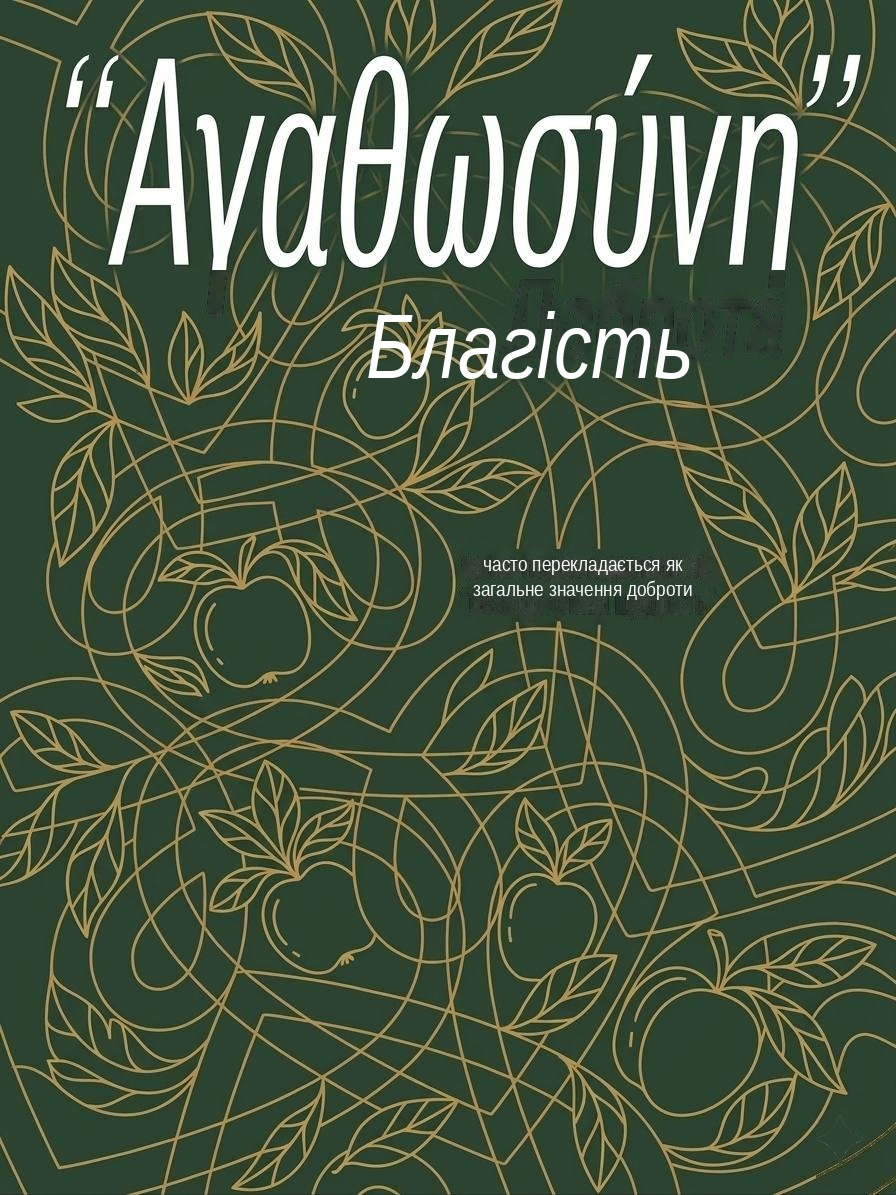
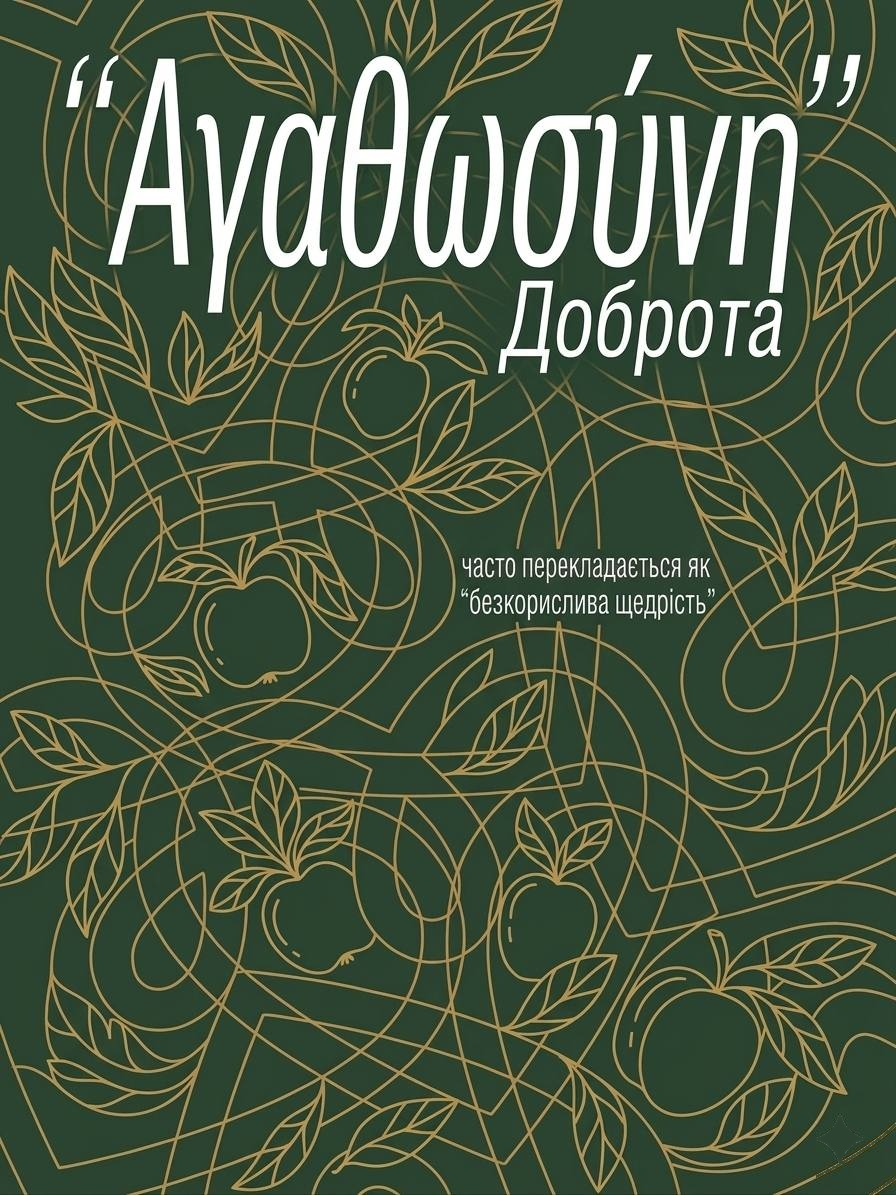
back original photo

Changed region(s): [[0.4062, 0.2167, 0.875, 0.3406], [0.5, 0.4644, 0.8125, 0.5264], [0.2188, 0.2167, 0.25, 0.2787]]

diff --git a/js/blocks.js b/js/blocks.js
@@ -263,14 +263,14 @@ window.MAG_BLOCKS = [
     ]
   },
   {
-    kind: 'fruit', img: window.__resources.img_fruit_kindness, n: '05', name: 'Доброта', greek: 'χρηστότης · часто перекладається як ласкавість',
+    kind: 'fruit', img: window.__resources.img_fruit_kindness, n: '05', name: 'Доброта', greek: 'χρηστότης · chrēstótēs',
     body: [
       'Значить бути щиро добрим до всіх і кожного. Вона припускає, що всі люди заслуговують на доброту, незалежно від відмінностей, поглядів чи культур. Доброта радіє за інших і служить, коли є потреба.',
       'Вона піклується про благополуччя інших і виявляє співчуття, коли це необхідно. Вона допомагає іншим і демонструє ввічливість і доброзичливість до будь-кого. Добрі люди не проявляють ворожості, зла чи заздрості до інших.'
     ]
   },
   {
-    kind: 'fruit', img: window.__resources.img_fruit_goodness, n: '06', name: 'Благість', greek: 'ἀγαθωσύνη · часто перекладається як загальне значення доброти',
+    kind: 'fruit', img: window.__resources.img_fruit_goodness, n: '06', name: 'Благість', greek: 'ἀγαθωσύνη · agathōsýnē',
     body: [
       'Значить бути щиро добрим до всіх і кожного. Вона припускає, що всі люди заслуговують на доброту, незалежно від відмінностей, поглядів чи культур. Доброта радіє за інших і служить, коли є потреба.',
       'Вона піклується про благополуччя інших і виявляє співчуття, коли це необхідно. Вона допомагає іншим і демонструє ввічливість і доброзичливість до будь-кого. Добрі люди не проявляють ворожості, зла чи заздрості до інших.'
